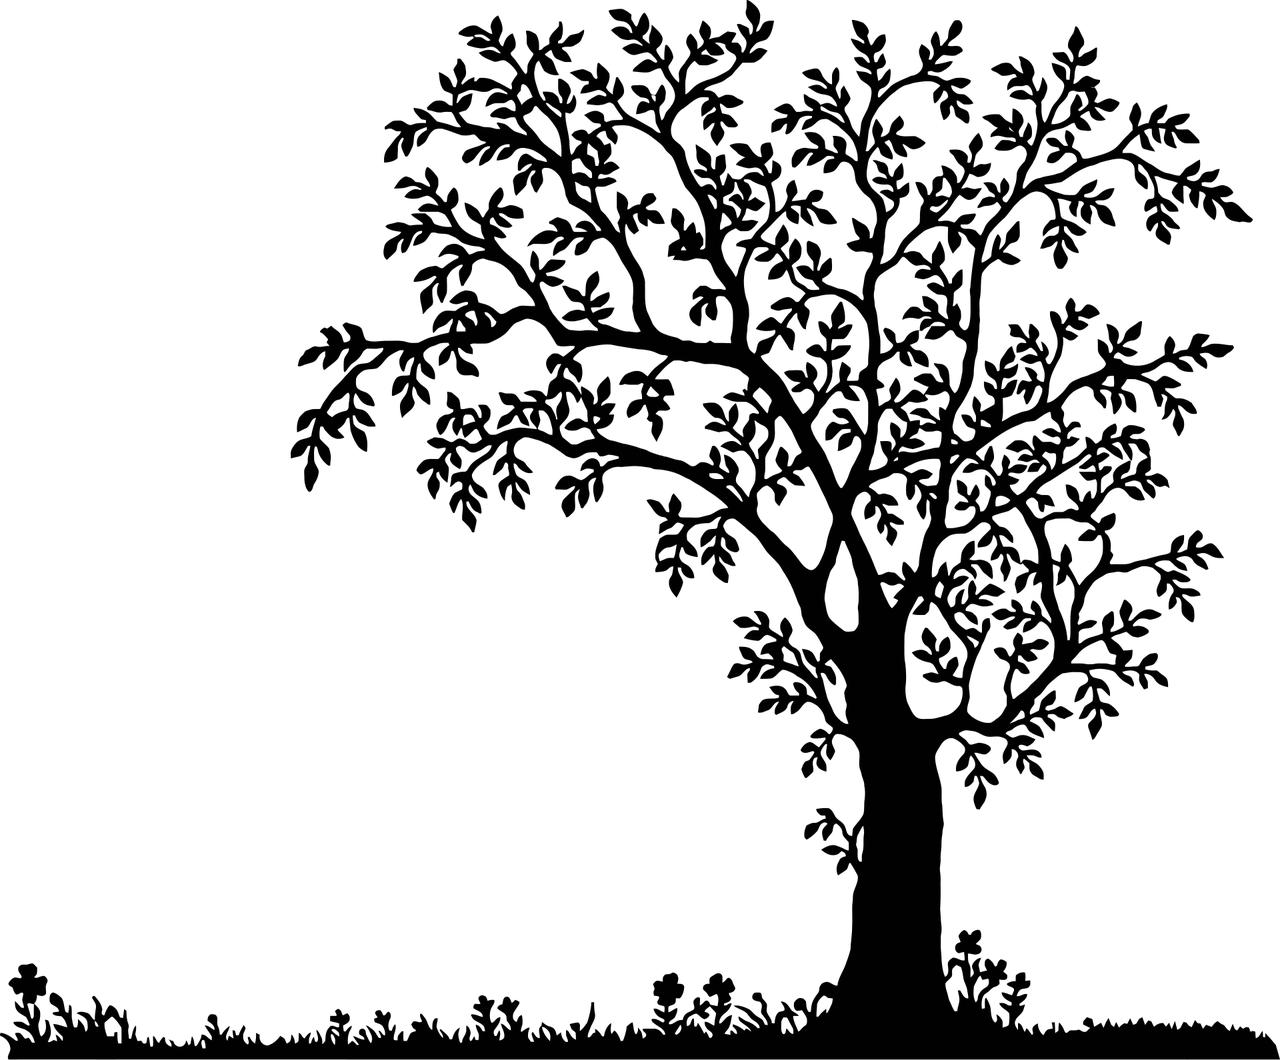
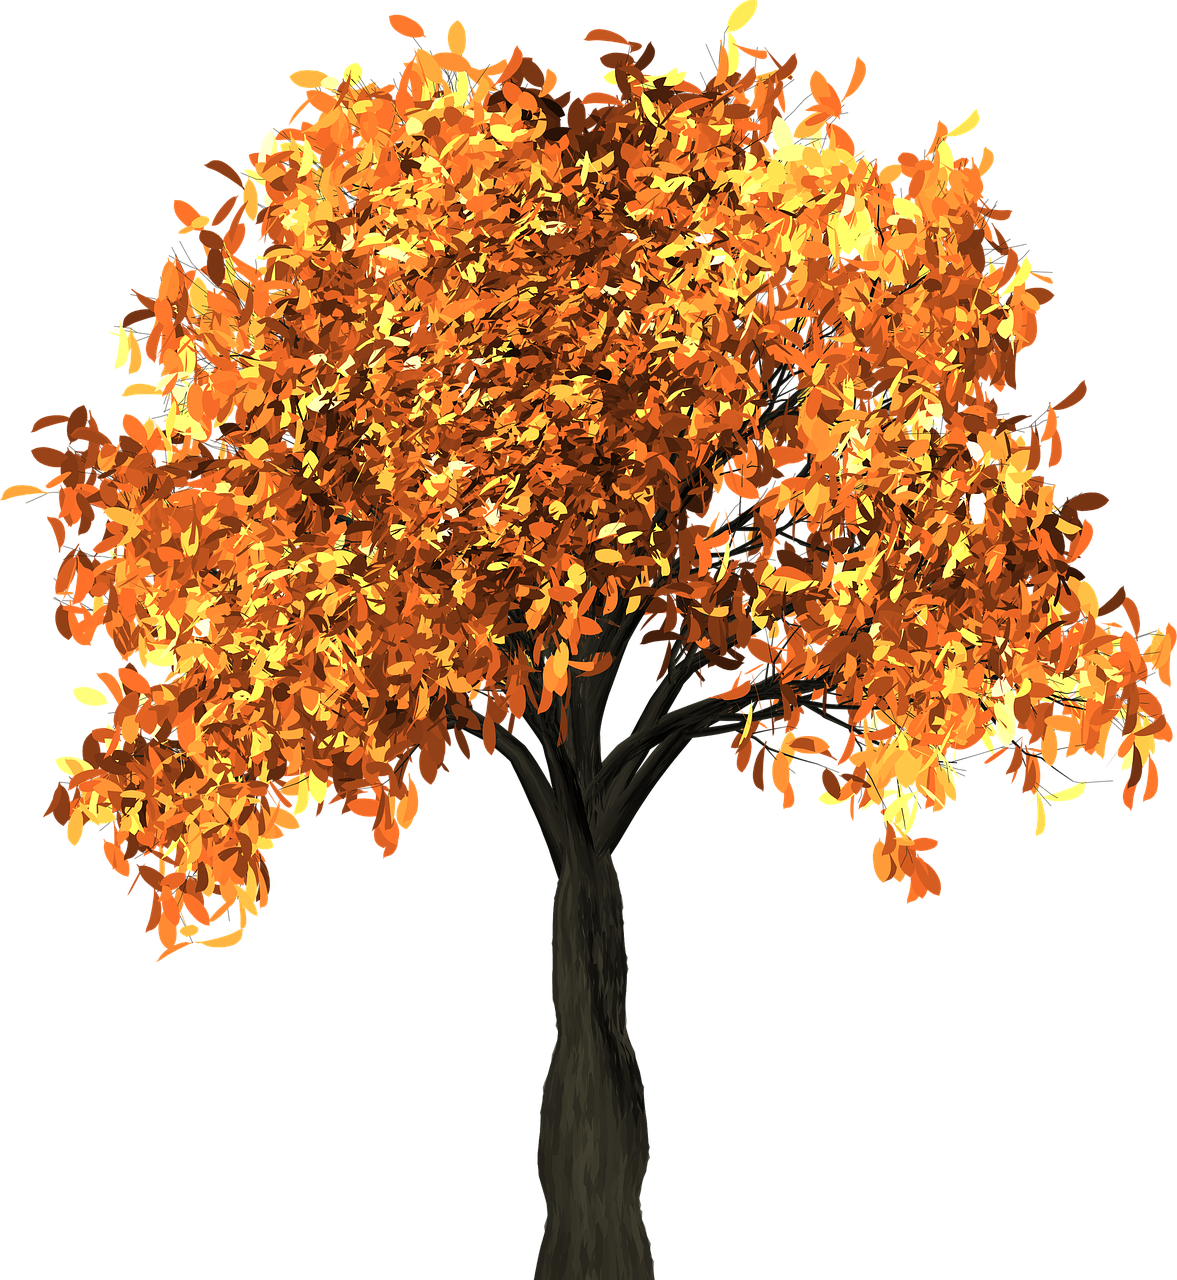
1017

diff --git a/hw/midterm/sketch.js b/hw/midterm/sketch.js
@@ -1,8 +1,17 @@
+var halloButton;
 
 var treeImage;
 
+var leafX = [];
+var leafY = [];
+var leafAmount = 1;
+var leafImage;
+
+var puplineColor = "yellow";
+
 function preload(){
-  treeImage = loadImage("images/htree.png");
+  treeImage = loadImage("images/tree.png");
+  leafImage = loadImage("images/leaf.png");
 } //end of preload
 
 function setup() {
@@ -10,27 +19,82 @@ function setup() {
   createCanvas(1000,600);
   background("PapayaWhip");
 
+  halloButton = createButton("Happy Halloween! ");
+  halloButton.position(10,10);
+  halloButton.mousePressed(function(){
+    puplineColor = "black";
+  });
+
   image(treeImage, 300,5,900,460);
+
+  for(var i = 0; i < leafAmount; i++){
+    leafX[i] = random(0,width);
+    leafY[i] = random(0,-600);
+  }
+  console.log("leafX" + leafX);
+  console.log("leafY" + leafY);
 
 } //end of setup
 
 function draw() {
   // put drawing code here
 
-  stroke(0);
+  stroke("LightYellow");
   strokeWeight(1);
   fill("orange");
-  rect(730,450,135,105,80); //pumplin small
-  rect(820,460,155,125,80); //pumpkin big
+  rect(610,450,155,125,80); //pumpkin2 big
+  rect(530,475,135,105,80); //pumpkin1 small
+  rect(730,450,135,105,80); //pumpkin3 small
+  rect(820,460,155,125,80); //pumpkin4 big
+
+  stroke("green");
+  fill("green");
+  rect(575,465,38,14,85); //p1
+  rect(665,440,45,14,85); //p2
+  rect(777,440,38,14,85); //p3
+  rect(872,450,45,14,85); //p4
 
   stroke("LightYellow");
   strokeWeight(0.5);
-  triangle(755,469,748,500,755,535);
+  fill(puplineColor);
+  triangle(555,496,548,517,555,562); //pumpkin1-1
+  triangle(568,488,578,507,585,566); //pumpkin1-2
+  triangle(598,496,604,527,600,568); //pumpkin1-3
+  triangle(635,486,640,522,620,560); //pumpkin1-4
+  triangle(675,479,688,520,675,550); //pumpkin2-1
+  triangle(700,466,710,527,700,568); //pumpkin2-2
+  triangle(755,469,748,500,755,535); //pumpkin3-1
+  triangle(775,479,768,520,775,550); //pumpkin3-2
+  triangle(790,466,800,527,790,548); //pumpkin3-3
+  triangle(855,472,848,517,855,569); //pumpkin4-1
+  triangle(875,469,880,527,875,579); //pumpkin4-2
+  triangle(898,476,910,527,900,578); //pumpkin4-3
+  triangle(928,469,940,522,920,580); //pumpkin4-4
 
   stroke(0);
   strokeWeight(3);
+  fill("WhiteSmoke");
+  rect(100,120,30,120); //chimney tall
+  rect(90,100,50,20); //chimney wide
+
+  fill("Lavender");
+  circle(220,420,20,20); //door???
+  rect(50,280,340,280); //door
+  triangle(50,280,390,280, 220,85); //roof
+  rect(80,400,150,160); //house
+
+  //rect(90,320,90,70, 30,30);
   fill(255);
-  rect(50,280,340,280);
-  triangle(50,280,390,280,220,85);
+  rect(260,320,90,70, 30,30); //window
+  line(260,355,350,355); //horizontal
+  line(305,320,305,390); //vertical
+
+  for(var l = 0; l < leafAmount; l++){
+    if(leafY[l]<height - 20){
+      leafY[l]++;
+      leafX[l] = leafX[l] + sin(radians(frameCount));
+    }
+    image(leafImage, leafX[l], leafY[l], 20,20);
+  }
 
 } //end of draw
